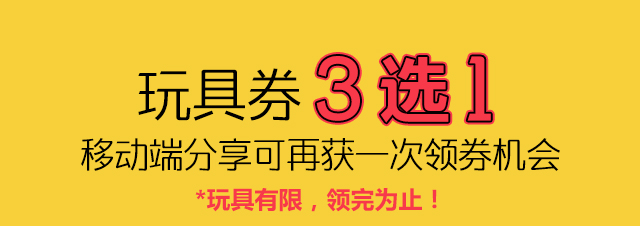
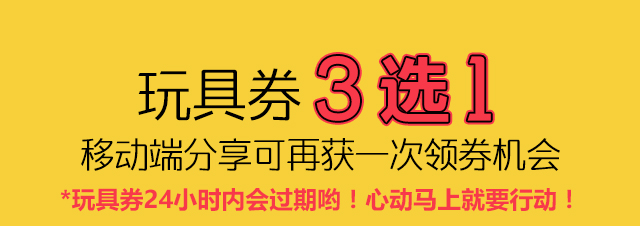
六一节活动提示框增加关闭按钮

Changed region(s): [[0.0938, 0.8053, 0.9062, 0.9602]]

diff --git a/childrens-day-ssk.html b/childrens-day-ssk.html
@@ -79,7 +79,7 @@
         <div class="rules">
             <dl>
                 <dt>活动规则：</dt>
-                <dd>1.活动期间使用玩具兑换券正价订购1磅以上蛋糕产品（小黄人蛋糕，晚礼芭比蛋糕除外），即可免费获得进口正版玩具一套；</dd>
+                <dd>1.活动期间使用玩具兑换券正价订购1磅以上蛋糕产品（小黄人蛋糕，晚礼芭比蛋糕除外），即可免费获得进口正版玩具一套。玩具有限，领完为止；</dd>
                 <dd>2.订购小黄人蛋糕/晚礼芭比蛋糕，即可免费获得指定款正版进口玩具一份以及价值189元蛋糕兑换券一张；</dd>
                 <dd>3.本活动不与其他活动优惠同享，不可使用微信9折，不可使用优惠券代金卡；</dd>
                 <dd>4.玩具券一个用户可领一张，移动端领取并分享，可获得额外的一次领取机会；</dd>
@@ -100,6 +100,7 @@
         
         <!-- 注册弹出层 begin -->
         <div class="mask mask-reg">
+            <a href="javascript:;" class="mask-close"><img src="assets/imgs/childrens-day/mask_close.png" alt=""></a>
             <div class="yellow-man"><img src="assets/imgs/childrens-day/mask_bg.png" alt=""></div>
             <ul>
                 <li class="clearfix">
@@ -114,6 +115,7 @@
         
         <!-- 领券结果弹出层 begin -->
         <div class="mask mask-result">
+            <a href="javascript:;" class="mask-close"><img src="assets/imgs/childrens-day/mask_close.png" alt=""></a>
             <div class="yellow-man"><img src="assets/imgs/childrens-day/mask_bg.png" alt=""></div>
 
             <!-- 新用户 begin -->

diff --git a/childrens-day-fxn.html b/childrens-day-fxn.html
@@ -63,7 +63,7 @@
         <div class="rules">
             <dl>
                 <dt>活动规则：</dt>
-                <dd>1.活动期间使用玩具兑换券正价订购1磅以上蛋糕，即可免费获得进口正版玩具一套；</dd>
+                <dd>1.活动期间使用玩具兑换券正价订购1磅以上蛋糕，即可免费获得进口正版玩具一套。玩具有限，领完为止；</dd>
                 <dd>2.本活动不与其他活动优惠同享，不可使用微信9折，不可使用优惠券代金卡；</dd>
                 <dd>3.玩具券一个用户可领一张，移动端领取并分享，可获得额外的一次领取机会；</dd>
                 <dd>4.活动时间：5月18日-6月1日；</dd>
@@ -83,6 +83,7 @@
     	
 		<!-- 注册弹出层 begin -->
 	    <div class="mask mask-reg">
+            <a href="javascript:;" class="mask-close"><img src="assets/imgs/childrens-day/mask_close.png" alt=""></a>
 	    	<div class="yellow-man"><img src="assets/imgs/childrens-day/mask_bg.png" alt=""></div>
 	    	<ul>
 	    		<li class="clearfix">
@@ -97,6 +98,7 @@
 		
 		<!-- 领券结果弹出层 begin -->
 	    <div class="mask mask-result">
+            <a href="javascript:;" class="mask-close"><img src="assets/imgs/childrens-day/mask_close.png" alt=""></a>
 	    	<div class="yellow-man"><img src="assets/imgs/childrens-day/mask_bg.png" alt=""></div>
 
 	    	<!-- 新用户 begin -->

diff --git a/assets/css/childrens-day.css b/assets/css/childrens-day.css
@@ -48,6 +48,7 @@ html, body { width: 100%; height: 100%; }
 #mask .mask { display: none; position: absolute; top: 46%; left: 50%; width: 90%; padding: 30px 0; background-color: #fff; -webkit-transform: translate(-50%, -50%); transform: translate(-50%, -50%); box-shadow: 1px 1px 6px rgba(0, 0, 0, .9); }
 #mask .mask img { width: 100%; }
 #mask .mask .yellow-man { position: absolute; top: 0; right: 10%; width: 43.5185%; -webkit-transform: translateY(-90%); transform: translateY(-90%); }
+#mask .mask .mask-close { position: absolute; top: 6px; right: 6px; width: 10%; }
 #mask .mask-reg ul { width: 74%; margin: 0 auto; }
 #mask .mask-reg li { width: 100%; height: 38px; line-height: 38px; border: 2px solid #f7d03a; border-radius: 21px; margin-bottom: 10px; overflow: hidden; }
 #mask .mask-reg li input { display: inline-block; width: 100%; height: 100%; border: none; background-color: transparent; outline: none; -webkit-appearance: none; text-indent: 1em; }

diff --git a/assets/js/childrens-day.js b/assets/js/childrens-day.js
@@ -108,6 +108,15 @@
                 }
             });
         });
+
+        // 关闭按钮
+        $oMask.on('click', '.mask-close', function(event) {
+            event.preventDefault();
+            /* Act on the event */
+            $(this).closest('.mask').fadeOut(function(){
+                $oMask.fadeOut();
+            });
+        });
     }
 
 })();
